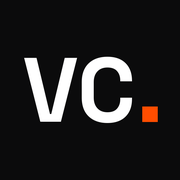
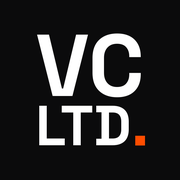
Refine mark to stacked VC/LTD block; expand site copy in depth
- Primary mark becomes the stacked 'VC / LTD.' block — both lines
  justified to equal width, orange square period closing LTD; echoes the
  vcltd.co domain and stays legible at 16px. Tight 'VC.' one-liner and
  'VC LIMITED.' wordmark complete the system; tiles, favicon, touch
  icon and signature tile updated to the block
- Service copy expanded: every sub-capability now has a full
  description; intros deepened; About gains the logistics-x-
  manufacturing rationale
- New sections: How we work (Explore/Research/Roadmap/Execute/Optimise,
  drawn from the original site copy), Who we work with, and a FAQ
  accordion in Contact (native details/summary, no JS)
- Nav and footer gain 'How we work'; section numbering rebalanced

Claude-Session: https://claude.ai/code/session_018sf7RcgHrbFd4LukUbuGci

Changed region(s): [[0.1111, 0.1667, 0.8056, 0.8333], [0.7778, 0.5833, 0.8889, 0.6944], [0.75, 0.75, 0.8056, 0.8333]]

diff --git a/css/styles.css b/css/styles.css
@@ -387,6 +387,84 @@ section { scroll-margin-top: var(--nav-h); }
   color: var(--muted-inv);
 }
 
+/* --------------------------------------------------------------- process */
+#process h2 { margin-bottom: 1.4rem; }
+.process-steps {
+  display: grid;
+  grid-template-columns: repeat(5, 1fr);
+  gap: 1.6rem 1.4rem;
+  margin-top: 2.6rem;
+  counter-reset: none;
+}
+.pstep {
+  border-top: 1px solid var(--line);
+  padding-top: 1.3rem;
+  position: relative;
+}
+.pstep::before {
+  content: "";
+  position: absolute; top: -1px; left: 0;
+  width: 40px; height: 2px;
+  background: var(--orange);
+}
+.pstep-num {
+  font-family: var(--font-mono);
+  font-size: 0.78rem;
+  font-weight: 500;
+  letter-spacing: 0.12em;
+  color: var(--orange-deep);
+}
+.pstep h3 {
+  font-family: var(--font-display);
+  font-size: 1.16rem;
+  font-weight: 650;
+  margin: 0.55rem 0 0.45rem;
+}
+.pstep p { font-size: 0.94rem; }
+
+/* --------------------------------------------------------------- clients */
+.clients h2 { margin-bottom: 2.6rem; }
+.client-grid {
+  display: grid;
+  grid-template-columns: repeat(2, minmax(0, 1fr));
+  gap: 1.8rem 3rem;
+}
+.client-grid li { border-left: 2px solid var(--orange); padding-left: 1.2rem; }
+.client-grid h3 {
+  font-family: var(--font-display);
+  font-size: 1.14rem;
+  font-weight: 650;
+  color: var(--text-inv);
+  margin-bottom: 0.3rem;
+}
+.client-grid p { font-size: 0.97rem; }
+
+/* ------------------------------------------------------------------- faq */
+.faq { margin-top: 2.6rem; border-bottom: 1px solid var(--line); }
+.faq details { border-top: 1px solid var(--line); }
+.faq summary {
+  font-family: var(--font-display);
+  font-weight: 600;
+  font-size: 1.02rem;
+  padding-block: 0.95rem;
+  cursor: pointer;
+  list-style: none;
+  display: flex;
+  justify-content: space-between;
+  align-items: center;
+  gap: 1rem;
+}
+.faq summary::-webkit-details-marker { display: none; }
+.faq summary::after {
+  content: "+";
+  font-family: var(--font-mono);
+  color: var(--orange);
+  font-size: 1.1rem;
+  line-height: 1;
+}
+.faq details[open] summary::after { content: "–"; }
+.faq details p { padding: 0 0 1.1rem; font-size: 0.97rem; max-width: 34em; }
+
 /* --------------------------------------------------------------- contact */
 .contact-list {
   display: grid;
@@ -529,6 +607,8 @@ section { scroll-margin-top: var(--nav-h); }
   .split { grid-template-columns: 1fr; }
   .service { grid-template-columns: 1fr; gap: 1.6rem; }
   .service-items { grid-template-columns: 1fr; gap: 1.4rem; }
+  .process-steps { grid-template-columns: repeat(2, 1fr); }
+  .client-grid { grid-template-columns: 1fr; }
   .footer-inner { grid-template-columns: 1fr; justify-items: start; }
   .footer-nav { justify-content: flex-start; }
   .footer-legal { text-align: left; }
@@ -537,6 +617,7 @@ section { scroll-margin-top: var(--nav-h); }
   .field-row { grid-template-columns: 1fr; }
   .contact-list { grid-template-columns: 1fr; }
   .contact-form { padding: 1.4rem; }
+  .process-steps { grid-template-columns: 1fr; }
   .hero-ghost { right: -22vw; opacity: 0.75; }
 }
 

diff --git a/email-signature/signature.html b/email-signature/signature.html
@@ -24,9 +24,10 @@
         <tr>
           <td align="center" valign="middle" width="48" height="48"
               style="width:48px; height:48px; background-color:#0B0B0C; border-radius:10px;
-                     font-family: Arial, Helvetica, sans-serif; font-size:17px; font-weight:bold;
-                     letter-spacing:0.5px;">
-            <span style="color:#FFFFFF;">VC</span><span style="color:#FF4D00;">.</span>
+                     font-family: Arial, Helvetica, sans-serif; font-size:13px; font-weight:bold;
+                     letter-spacing:0.5px; line-height:1.15; text-align:center;">
+            <span style="color:#FFFFFF;">VC</span><br>
+            <span style="color:#FFFFFF;">LTD</span><span style="color:#FF4D00;">.</span>
           </td>
         </tr>
       </table>

diff --git a/__preview_full.html b/__preview_full.html
@@ -42,7 +42,7 @@
     }
   }
   </script>
-</head>
+<style>.hero{min-height:880px!important}</style></head>
 <body>
 
   <a class="skip-link" href="#main">Skip to content</a>

diff --git a/scripts/generate_brand.py b/scripts/generate_brand.py
@@ -51,6 +51,10 @@ def font_path(name: str) -> Path:
 # The period square is sized relative to cap height, sitting on the baseline.
 SQUARE_RATIO = 0.24   # square side / cap height
 SQUARE_GAP = 0.10     # gap between letters and square / cap height
+MARK_TRACK = -0.045   # tracking for the tight "VC." one-liner
+BLOCK_TRACK_TOP = -0.03    # "VC" line of the stacked block
+BLOCK_TRACK_BOT = -0.015   # "LTD" line of the stacked block
+BLOCK_GAP = 0.16      # vertical gap between block lines / top cap height
 
 
 # ------------------------------------------------------------ text paths ----
@@ -114,24 +118,70 @@ def vc_dot_svg(text: str, cap_px: float, color: str, pad: float = 4.0,
     return inner, sx + sq + pad, height
 
 
+def block_svg(color: str, cap1: float = 42.0, pad: float = 4.0) -> tuple[str, float, float]:
+    """Stacked 'VC / LTD.' block, both lines justified to equal width.
+
+    Returns (inner svg, width, height)."""
+    grotesk = font_path("spacegrotesk-700.ttf")
+    caph = cap_height(grotesk)
+
+    def line_width(text, cap, tracking):
+        _, end = text_path(grotesk, text, cap / caph, 0, 0, tracking_em=tracking)
+        return end
+
+    w_vc = line_width("VC", cap1, BLOCK_TRACK_TOP)
+    # find cap2 so LTD + gap + square fills the same width
+    lo, hi = cap1 * 0.2, cap1
+    for _ in range(60):
+        mid = (lo + hi) / 2
+        w = line_width("LTD", mid, BLOCK_TRACK_BOT) + (SQUARE_GAP + SQUARE_RATIO) * mid
+        if w > w_vc:
+            hi = mid
+        else:
+            lo = mid
+    cap2 = (lo + hi) / 2
+
+    base1 = pad + cap1
+    base2 = base1 + BLOCK_GAP * cap1 + cap2
+    d1, _ = text_path(grotesk, "VC", cap1 / caph, pad, base1, tracking_em=BLOCK_TRACK_TOP)
+    d2, e2 = text_path(grotesk, "LTD", cap2 / caph, pad, base2, tracking_em=BLOCK_TRACK_BOT)
+    sq = SQUARE_RATIO * cap2
+    sqx = e2 + SQUARE_GAP * cap2
+    inner = (
+        f'<path d="{d1}" fill="{color}"/><path d="{d2}" fill="{color}"/>'
+        f'<rect x="{fmt(sqx)}" y="{fmt(base2 - sq)}" width="{fmt(sq)}" height="{fmt(sq)}" fill="{ORANGE}"/>'
+    )
+    return inner, pad + w_vc + pad, base2 + pad
+
+
 def gen_marks():
-    # standalone "VC." marks, transparent background
+    # tight "VC." one-liner, transparent background
     for name, color in [("mark.svg", BLACK), ("mark-dark.svg", WHITE)]:
-        inner, w, h = vc_dot_svg("VC", 44, color)
+        inner, w, h = vc_dot_svg("VC", 44, color, tracking=MARK_TRACK)
         svg = (
             f'<svg xmlns="http://www.w3.org/2000/svg" viewBox="0 0 {fmt(w)} {fmt(h)}" '
             f'width="{fmt(w)}" height="{fmt(h)}" role="img" aria-label="VC Limited">{inner}</svg>'
         )
         write(BRAND / name, svg)
 
-    # tile: black rounded square, "VC." centred
-    inner, w, h = vc_dot_svg("VC", 34, WHITE, pad=0)
-    ox = (96 - (w)) / 2
-    oy = (96 - 34) / 2
+    # stacked block mark, transparent background
+    for name, color in [("block.svg", BLACK), ("block-dark.svg", WHITE)]:
+        inner, w, h = block_svg(color)
+        svg = (
+            f'<svg xmlns="http://www.w3.org/2000/svg" viewBox="0 0 {fmt(w)} {fmt(h)}" '
+            f'width="{fmt(w)}" height="{fmt(h)}" role="img" aria-label="VC Limited">{inner}</svg>'
+        )
+        write(BRAND / name, svg)
+
+    # tile: black rounded square, stacked block centred
+    inner, w, h = block_svg(WHITE)
+    scale = 58.0 / h
+    ox = (96 - w * scale) / 2
+    oy = (96 - 58.0) / 2
     fav = (
         '<svg xmlns="http://www.w3.org/2000/svg" viewBox="0 0 96 96" width="96" height="96">'
         f'<rect width="96" height="96" rx="20" fill="{BLACK}"/>'
-        f'<g transform="translate({fmt(ox)} {fmt(oy)})">{inner}</g></svg>'
+        f'<g transform="translate({fmt(ox)} {fmt(oy)}) scale({fmt(scale)})">{inner}</g></svg>'
     )
     write(BRAND / "favicon.svg", fav)
 
@@ -168,6 +218,7 @@ def draw_vc_dot(d: ImageDraw.ImageDraw, x: float, baseline: float, cap_px: float
 
 
 def tile(size: int, rounded: bool) -> Image.Image:
+    """Black tile with the stacked 'VC / LTD.' block centred."""
     ss = 4
     n = size * ss
     img = Image.new("RGBA", (n, n), (0, 0, 0, 0))
@@ -176,12 +227,37 @@ def tile(size: int, rounded: bool) -> Image.Image:
         d.rounded_rectangle([0, 0, n - 1, n - 1], radius=n * 0.21, fill=hex_rgb(BLACK))
     else:
         d.rectangle([0, 0, n, n], fill=hex_rgb(BLACK))
-    cap = n * 34 / 96
+
     grotesk = font_path("spacegrotesk-700.ttf")
-    font = ImageFont.truetype(str(grotesk), round(cap / cap_height(grotesk)))
-    total = d.textlength("VC", font=font) + (SQUARE_GAP + SQUARE_RATIO) * cap
-    baseline = (n + cap) / 2
-    draw_vc_dot(d, (n - total) / 2, baseline, cap, hex_rgb(WHITE), hex_rgb(ORANGE))
+    ratio = cap_height(grotesk)
+
+    def width_at(text, cap):
+        font = ImageFont.truetype(str(grotesk), round(cap / ratio))
+        return d.textlength(text, font=font)
+
+    # block height 58/96 of the tile, same proportions as block_svg
+    cap1 = n * 58 / 96 / (1 + BLOCK_GAP + 0.615)   # 0.615 ~ cap2/cap1 from the svg solve
+    w_vc = width_at("VC", cap1)
+    lo, hi = cap1 * 0.2, cap1
+    for _ in range(40):
+        mid = (lo + hi) / 2
+        if width_at("LTD", mid) + (SQUARE_GAP + SQUARE_RATIO) * mid > w_vc:
+            hi = mid
+        else:
+            lo = mid
+    cap2 = (lo + hi) / 2
+    block_h = cap1 + BLOCK_GAP * cap1 + cap2
+    x0 = (n - w_vc) / 2
+    base1 = (n - block_h) / 2 + cap1
+    base2 = base1 + BLOCK_GAP * cap1 + cap2
+
+    f1 = ImageFont.truetype(str(grotesk), round(cap1 / ratio))
+    f2 = ImageFont.truetype(str(grotesk), round(cap2 / ratio))
+    d.text((x0, base1), "VC", font=f1, fill=hex_rgb(WHITE), anchor="ls")
+    d.text((x0, base2), "LTD", font=f2, fill=hex_rgb(WHITE), anchor="ls")
+    sq = SQUARE_RATIO * cap2
+    sx = x0 + d.textlength("LTD", font=f2) + SQUARE_GAP * cap2
+    d.rectangle([sx, base2 - sq, sx + sq, base2], fill=hex_rgb(ORANGE))
     return img.resize((size, size), Image.LANCZOS)
 
 
